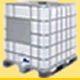
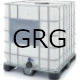
actualizada imagenes sin fondo / updated images without background

diff --git a/APP/src/img/index.js b/APP/src/img/index.js
@@ -7,6 +7,7 @@ import grg from './grg.png'
 import bigbag from './bigbag.png'
 import b200 from './b200.png'
 import bm200 from './bm200.png'
+import otro from './otro.png'
 
 export {
     logo,
@@ -15,5 +16,6 @@ export {
     grg,
     bigbag,
     b200, 
-    bm200
+    bm200,
+    otro
 }
